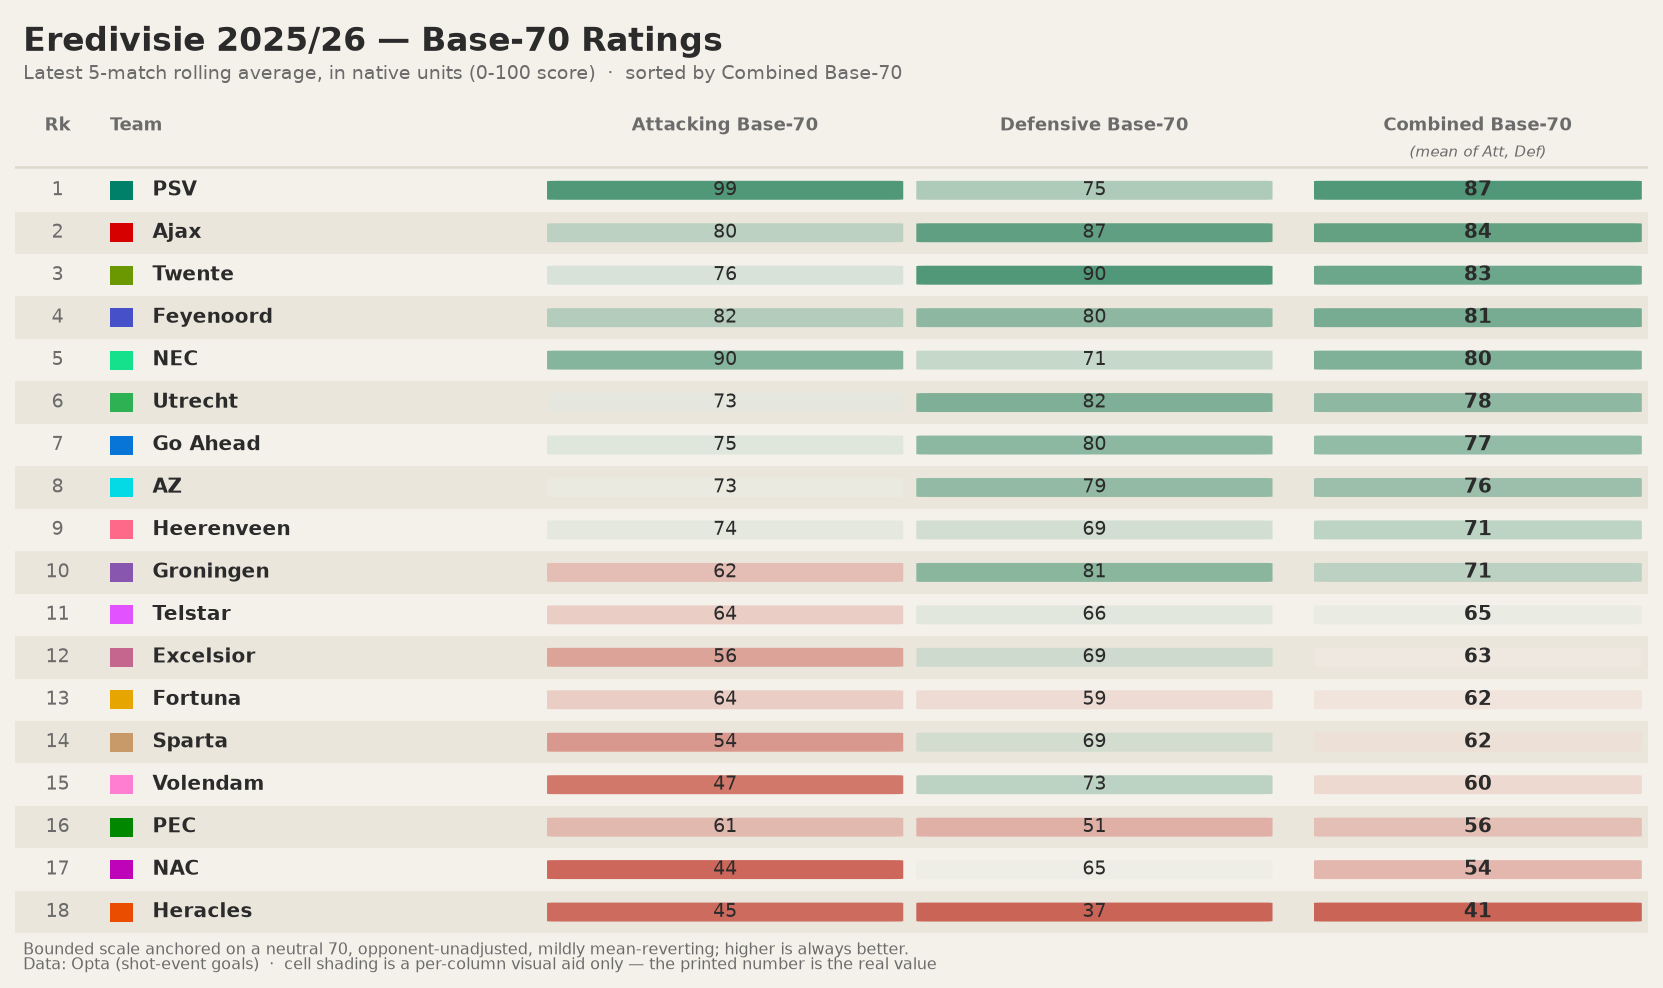
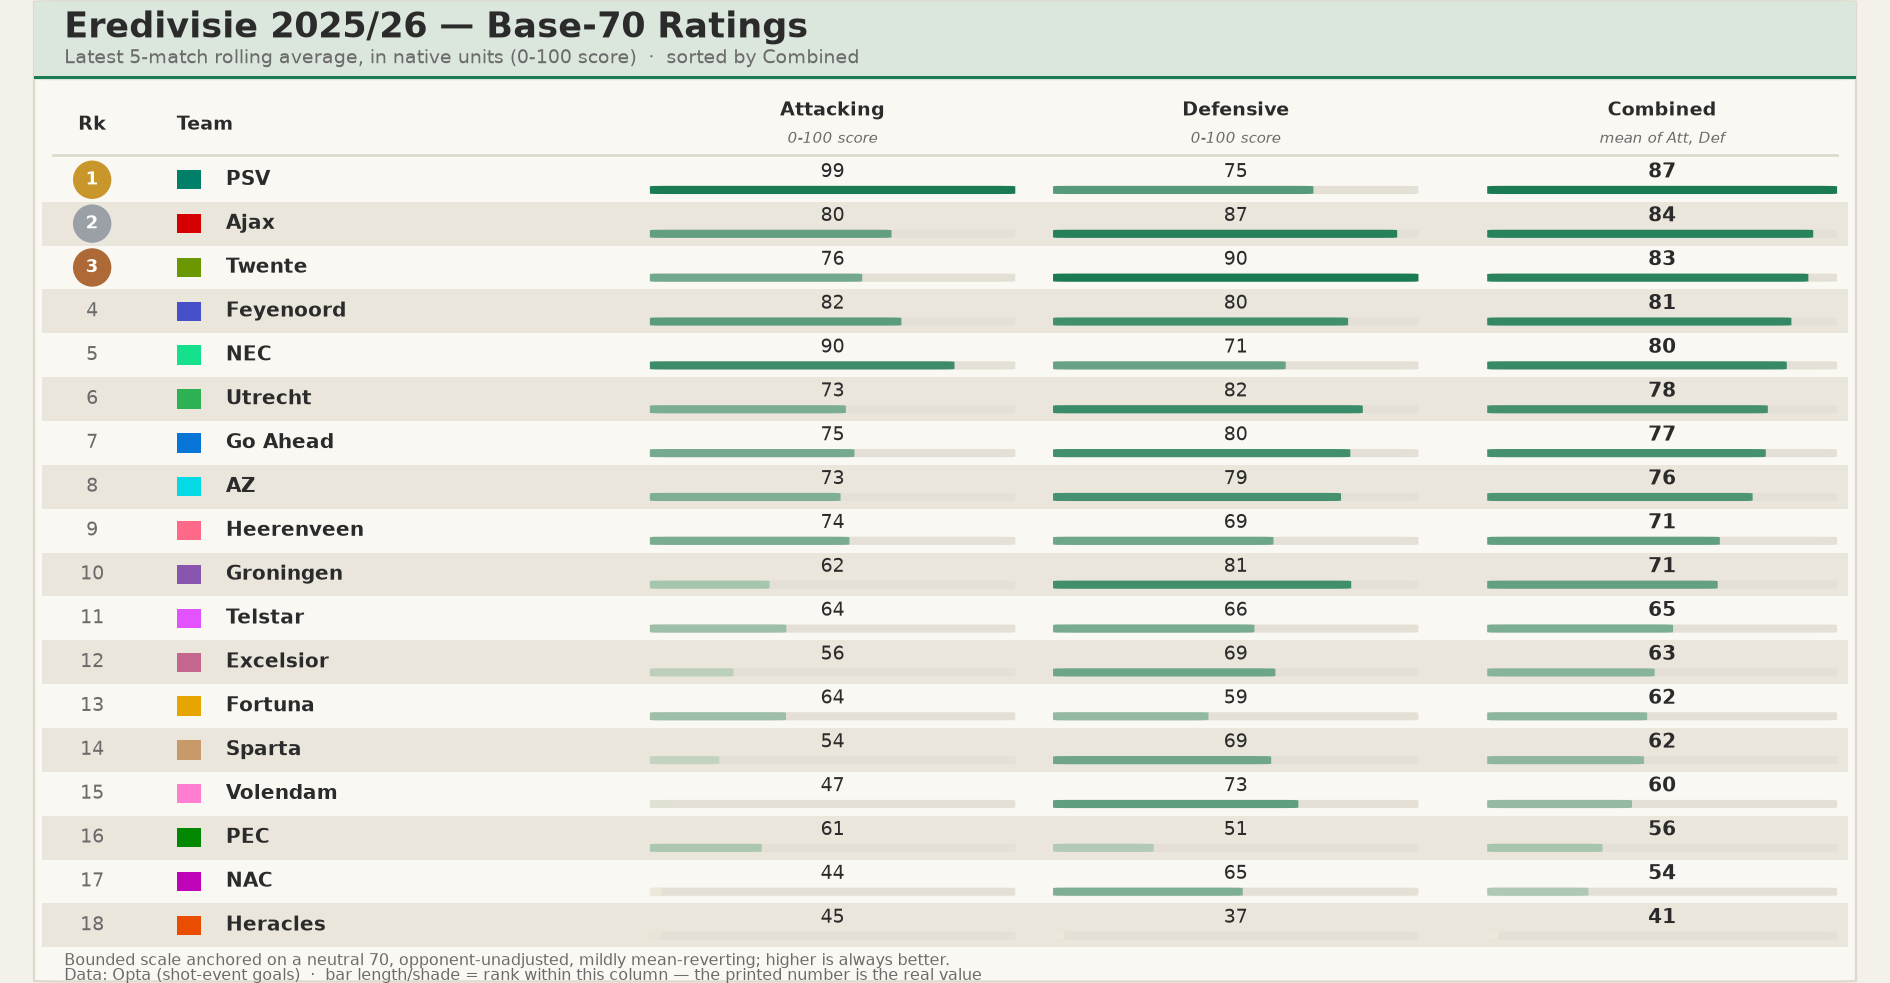
Redesign ratings tables: consistent sizing, proportional bars, brand accents
Fixes an inconsistency where the 4 per-system table PNGs came out at
different pixel dimensions (bbox_inches='tight' cropped each one differently
depending on its title/label text length) - they're now identical.

Visual redesign: each table now uses a card layout with a header banner
tinted in that system's accent color (matching its line color in
top3_ratings.py, so the whole rating-visual family reads as one set), gold/
silver/bronze badges for the top 3, and a proportional data-bar under every
value instead of a flat full-width tint block, so bar length also encodes
rank within the column alongside the shading.

diff --git a/Scripts/ratings_table.py b/Scripts/ratings_table.py
@@ -15,14 +15,15 @@ PI is the one system where the defensive column is not "higher is better":
 it's goals conceded per match, so lower is better there — flagged directly in
 that table's column header and footnote instead of being hidden by rescaling.
 
-Cell background shading is a per-column visual aid only (relative strength
-within that column); the printed number is always the real, un-rescaled value.
+Each metric cell shows the real value with a proportional data-bar underneath
+(length + shade = that team's rank within the column, in the system's own
+accent color — the same accent used for that system's line in top3_ratings.py).
 """
 import numpy as np
 import pandas as pd
 import matplotlib.pyplot as plt
 import matplotlib.patches as mpatches
-from matplotlib.colors import LinearSegmentedColormap
+from matplotlib.colors import to_rgb
 
 from ratings_common import compute_all_systems_native, METHOD_ORDER
 
@@ -34,6 +35,10 @@ Q_MUTED   = '#6b6b6b'
 Q_GRID    = '#ddd9cd'
 Q_SURFACE = '#f4f1ea'
 Q_BAND    = '#eae6dc'
+Q_CARD    = '#faf8f3'
+Q_TRACK   = '#e4e0d5'
+
+MEDALS = {1: '#c9962b', 2: '#9aa0a6', 3: '#ad6a37'}
 
 # Same glasbey-safe team identity palette as coach_profiling.py / top3_ratings.py
 TEAM_COLORS = {
@@ -77,56 +82,59 @@ TEAM_SHORT = {
     'Sparta Rotterdam': 'Sparta',
 }
 
-CELL_CMAP = LinearSegmentedColormap.from_list('ratings_diverging', ['#c0392b', '#f4f1ea', '#1a7a52'], N=256)
-
-# per-system display config
+# per-system display config — accent matches that system's line color in top3_ratings.py
 SYSTEM_CONFIG = {
     'PI': dict(
-        file='pi_table.png', title='PI Ratings', unit='goals / match',
-        fmt='{:.2f}', att_label='Attacking\n(goals/match)',
-        def_label='Defensive\n(goals/match, ↓ better)',
+        file='pi_table.png', title='PI Ratings', unit='goals / match', accent='#2f6fb0',
+        fmt='{:.2f}', att_label='Attacking', att_sub='goals/match',
+        def_label='Defensive', def_sub='goals/match, ↓ better',
         def_higher_is_better=False,
-        composite_label='Net\n(Att − Def)',
+        composite_label='Net', composite_sub='Att − Def',
         composite_fn=lambda att, deff: att - deff,
         footnote='PI is a simple, opponent-unadjusted per-match goal rate. Its defensive column is goals '
                  'conceded/match, so LOWER is better there — the only column in these 4 tables where that is true.',
     ),
     'ELO': dict(
-        file='elo_table.png', title='ELO Ratings', unit='Elo points',
-        fmt='{:.0f}', att_label='Attacking ELO', def_label='Defensive ELO',
+        file='elo_table.png', title='ELO Ratings', unit='Elo points', accent='#a6620a',
+        fmt='{:.0f}', att_label='Attacking', att_sub='Elo points',
+        def_label='Defensive', def_sub='Elo points',
         def_higher_is_better=True,
-        composite_label='Combined ELO\n(mean of Att, Def)',
+        composite_label='Combined', composite_sub='mean of Att, Def',
         composite_fn=lambda att, deff: (att + deff) / 2,
         footnote='Classic Elo, opponent-adjusted; both columns start every team at 1500 and higher is always better.',
     ),
     'Glicko-2': dict(
-        file='glicko2_table.png', title='Glicko-2 Ratings', unit='Glicko-2 rating',
-        fmt='{:.0f}', att_label='Attacking Glicko-2', def_label='Defensive Glicko-2',
+        file='glicko2_table.png', title='Glicko-2 Ratings', unit='Glicko-2 rating', accent='#a52a52',
+        fmt='{:.0f}', att_label='Attacking', att_sub='Glicko-2 rating',
+        def_label='Defensive', def_sub='Glicko-2 rating',
         def_higher_is_better=True,
-        composite_label='Combined Glicko-2\n(mean of Att, Def)',
+        composite_label='Combined', composite_sub='mean of Att, Def',
         composite_fn=lambda att, deff: (att + deff) / 2,
         footnote='Elo extension with rating deviation/volatility (both start at 1500); higher is always better.',
     ),
     'Base-70': dict(
-        file='base70_table.png', title='Base-70 Ratings', unit='0-100 score',
-        fmt='{:.0f}', att_label='Attacking Base-70', def_label='Defensive Base-70',
+        file='base70_table.png', title='Base-70 Ratings', unit='0-100 score', accent='#1a7a52',
+        fmt='{:.0f}', att_label='Attacking', att_sub='0-100 score',
+        def_label='Defensive', def_sub='0-100 score',
         def_higher_is_better=True,
-        composite_label='Combined Base-70\n(mean of Att, Def)',
+        composite_label='Combined', composite_sub='mean of Att, Def',
         composite_fn=lambda att, deff: (att + deff) / 2,
         footnote='Bounded scale anchored on a neutral 70, opponent-unadjusted, mildly mean-reverting; higher is always better.',
     ),
 }
 
 
-def cell_color(val, lo, hi, invert=False, alpha=0.75):
-    if hi == lo:
-        frac = 0.5
-    else:
-        frac = (val - lo) / (hi - lo)
-    if invert:
-        frac = 1 - frac
-    r, g, b, _ = CELL_CMAP(np.clip(frac, 0, 1))
-    return (r, g, b, alpha)
+def sequential_color(accent, frac, light=(0.925, 0.910, 0.855), alpha=1.0):
+    """Blend from a light neutral tint up to the system's full accent color."""
+    frac = np.clip(frac, 0, 1)
+    ar, ag, ab = to_rgb(accent)
+    lr, lg, lb = light
+    return (lr + (ar - lr) * frac, lg + (ag - lg) * frac, lb + (ab - lb) * frac, alpha)
+
+
+def col_frac(val, lo, hi, invert=False):
+    frac = 0.5 if hi == lo else (val - lo) / (hi - lo)
+    return 1 - frac if invert else frac
 
 
 def build_table(systems, teams, method):
@@ -141,37 +149,52 @@ def build_table(systems, teams, method):
     return df
 
 
-COLUMNS = [('rank', 'Rk', 0.6), ('team', 'Team', 2.9), ('gap1', '', 0.2),
-           ('att', 'att_label', 2.6), ('deff', 'def_label', 2.6), ('gap2', '', 0.2),
-           ('composite', 'composite_label', 2.4)]
+COLUMNS = [('rank', 0.75), ('team', 2.9), ('gap1', 0.2),
+           ('att', 2.6), ('deff', 2.6), ('gap2', 0.2), ('composite', 2.5)]
 
 
 def col_edges():
-    widths = np.array([w for _, _, w in COLUMNS], dtype=float)
+    widths = np.array([w for _, w in COLUMNS], dtype=float)
     widths = widths / widths.sum()
     edges = np.concatenate([[0], np.cumsum(widths)])
-    return {key: (edges[i], edges[i + 1]) for i, (key, _, _) in enumerate(COLUMNS)}
+    return {key: (edges[i], edges[i + 1]) for i, (key, _) in enumerate(COLUMNS)}
+
+
+MARGIN = 0.018
 
 
 def plot_table(df, method):
     cfg = SYSTEM_CONFIG[method]
+    accent = cfg['accent']
     n = len(df)
-    row_h = 0.85
-    header_h = 1.5
-    title_h = 1.6
-    footer_h = 0.75
+    row_h = 0.86
+    header_h = 1.55
+    title_h = 1.55
+    footer_h = 0.7
     fig_h = title_h + header_h + n * row_h + footer_h
-    fig, ax = plt.subplots(figsize=(11, fig_h * 0.34), facecolor=Q_SURFACE)
+    fig, ax = plt.subplots(figsize=(12.6, fig_h * 0.34), facecolor=Q_SURFACE)
     ax.set_xlim(0, 1)
     ax.set_ylim(0, fig_h)
     ax.invert_yaxis()
     ax.axis('off')
 
-    ax.text(0.005, title_h * 0.35, f"Eredivisie 2025/26 — {cfg['title']}",
-            ha='left', va='center', color=Q_INK, fontsize=16, fontweight='bold')
-    ax.text(0.005, title_h * 0.75,
-            f"Latest 5-match rolling average, in native units ({cfg['unit']})  ·  sorted by {cfg['composite_label'].splitlines()[0]}",
-            ha='left', va='center', color=Q_MUTED, fontsize=9)
+    # ── card background + accent header banner ──
+    ax.add_patch(mpatches.FancyBboxPatch((MARGIN, 0.03), 1 - 2 * MARGIN, fig_h - 0.06,
+                                          boxstyle='round,pad=0,rounding_size=0.012',
+                                          facecolor=Q_CARD, edgecolor=Q_GRID, linewidth=1.1, zorder=0))
+    ax.add_patch(mpatches.FancyBboxPatch((MARGIN, 0.03), 1 - 2 * MARGIN, title_h,
+                                          boxstyle='round,pad=0,rounding_size=0.012',
+                                          facecolor=sequential_color(accent, 0.14, light=to_rgb(Q_CARD)),
+                                          edgecolor='none', zorder=0))
+    ax.add_patch(mpatches.Rectangle((MARGIN, title_h - 0.05), 1 - 2 * MARGIN, 0.05,
+                                     facecolor=accent, edgecolor='none', zorder=0))
+
+    pad_x = MARGIN + 0.016
+    ax.text(pad_x, title_h * 0.36, f"Eredivisie 2025/26 — {cfg['title']}",
+            ha='left', va='center', color=Q_INK, fontsize=17, fontweight='bold', zorder=2)
+    ax.text(pad_x, title_h * 0.74,
+            f"Latest 5-match rolling average, in native units ({cfg['unit']})  ·  sorted by {cfg['composite_label']}",
+            ha='left', va='center', color=Q_MUTED, fontsize=9.2, zorder=2)
 
     edges = col_edges()
 
@@ -179,41 +202,60 @@ def plot_table(df, method):
         l, r = edges[key]
         return (l + r) / 2
 
-    label_map = {'att': cfg['att_label'], 'deff': cfg['def_label'], 'composite': cfg['composite_label']}
-    line1_y = title_h + header_h * 0.42
-    line2_y = title_h + header_h * 0.78
-    for key, label, _ in COLUMNS:
+    def xscale(key, frac_in_margin):
+        # rescale a 0..1 fraction from full-width coords into the card's inset
+        return MARGIN + frac_in_margin * (1 - 2 * MARGIN)
+
+    label_map = {
+        'att': (cfg['att_label'], cfg['att_sub']),
+        'deff': (cfg['def_label'], cfg['def_sub']),
+        'composite': (cfg['composite_label'], cfg['composite_sub']),
+    }
+    line1_y = title_h + header_h * 0.40
+    line2_y = title_h + header_h * 0.76
+    for key, _ in COLUMNS:
         if key.startswith('gap'):
             continue
-        text = label_map.get(key, label)
-        parts = text.split('\n')
         ha = 'left' if key == 'team' else 'center'
-        x = edges[key][0] + 0.006 if key == 'team' else xmid(key)
-        ax.text(x, line1_y, parts[0], ha=ha, va='center', color=Q_MUTED, fontsize=8.8, fontweight='bold')
-        if len(parts) > 1:
-            ax.text(x, line2_y, parts[1], ha=ha, va='center', color=Q_MUTED, fontsize=7.3, style='italic')
-    ax.plot([0, 1], [title_h + header_h - 0.05, title_h + header_h - 0.05], color=Q_GRID, linewidth=1.2)
+        x = xscale('team', edges[key][0]) + 0.014 if key == 'team' else xscale(key, xmid(key))
+        if key in label_map:
+            l1, l2 = label_map[key]
+            ax.text(x, line1_y, l1, ha=ha, va='center', color=Q_INK, fontsize=9.3, fontweight='bold', zorder=2)
+            ax.text(x, line2_y, l2, ha=ha, va='center', color=Q_MUTED, fontsize=7.3, style='italic', zorder=2)
+        else:
+            ax.text(x, (line1_y + line2_y) / 2, 'Rk' if key == 'rank' else 'Team',
+                    ha=ha, va='center', color=Q_INK, fontsize=9.3, fontweight='bold', zorder=2)
+    ax.plot([MARGIN + 0.01, 1 - MARGIN - 0.01],
+            [title_h + header_h - 0.06, title_h + header_h - 0.06], color=Q_GRID, linewidth=1.3, zorder=1)
 
     att_lo, att_hi = df['att'].min(), df['att'].max()
     def_lo, def_hi = df['deff'].min(), df['deff'].max()
     comp_lo, comp_hi = df['composite'].min(), df['composite'].max()
 
+    bar_h = 0.16
     for i, (_, row) in enumerate(df.iterrows()):
         y0 = title_h + header_h + i * row_h
         yc = y0 + row_h / 2
 
         if i % 2 == 1:
-            ax.add_patch(mpatches.Rectangle((0, y0), 1, row_h, facecolor=Q_BAND, edgecolor='none', zorder=0))
+            ax.add_patch(mpatches.Rectangle((MARGIN + 0.004, y0), 1 - 2 * MARGIN - 0.008, row_h,
+                                             facecolor=Q_BAND, edgecolor='none', zorder=0))
 
         rank = df.index[i]
-        ax.text(xmid('rank'), yc, str(rank), ha='center', va='center', color=Q_MUTED, fontsize=9, zorder=2)
+        rx = xscale('rank', xmid('rank'))
+        if rank in MEDALS:
+            ax.scatter([rx], [yc], s=340, marker='o', color=MEDALS[rank], zorder=2, edgecolor='none')
+            ax.text(rx, yc, str(rank), ha='center', va='center', color='white', fontsize=8.6,
+                    fontweight='bold', zorder=3)
+        else:
+            ax.text(rx, yc, str(rank), ha='center', va='center', color=Q_MUTED, fontsize=9, zorder=2)
 
         team = row['team']
-        swatch_x = edges['team'][0] + 0.006
-        ax.add_patch(mpatches.Rectangle((swatch_x, yc - 0.19), 0.014, 0.38,
+        swatch_x = xscale('team', edges['team'][0]) + 0.014
+        ax.add_patch(mpatches.Rectangle((swatch_x, yc - 0.19), 0.013, 0.38,
                                          facecolor=TEAM_COLORS.get(team, '#888'), edgecolor='none', zorder=2))
         ax.text(swatch_x + 0.026, yc, TEAM_SHORT.get(team, team), ha='left', va='center',
-                color=Q_INK, fontsize=9.5, fontweight='bold', zorder=2)
+                color=Q_INK, fontsize=9.6, fontweight='bold', zorder=2)
 
         for key, val, lo, hi, invert in [
             ('att', row['att'], att_lo, att_hi, False),
@@ -221,24 +263,34 @@ def plot_table(df, method):
             ('composite', row['composite'], comp_lo, comp_hi, False),
         ]:
             l, r = edges[key]
-            pad = 0.004
-            ax.add_patch(mpatches.FancyBboxPatch((l + pad, yc - 0.19), (r - l) - 2 * pad, 0.38,
-                                                  boxstyle='round,pad=0,rounding_size=0.007',
-                                                  facecolor=cell_color(val, lo, hi, invert=invert), edgecolor='none', zorder=1))
-            weight = 'bold' if key == 'composite' else 'normal'
-            fs = 9.5 if key == 'composite' else 9
-            ax.text(xmid(key), yc, cfg['fmt'].format(val), ha='center', va='center',
-                    color=Q_INK, fontsize=fs, fontweight=weight, zorder=2)
+            l, r = xscale(key, l), xscale(key, r)
+            frac = col_frac(val, lo, hi, invert=invert)
+            bold = key == 'composite'
 
-    ax.text(0.005, fig_h - footer_h * 0.55, cfg['footnote'],
-            ha='left', va='center', color=Q_MUTED, fontsize=7.8, wrap=True)
-    ax.text(0.005, fig_h - footer_h * 0.15,
-            'Data: Opta (shot-event goals)  ·  cell shading is a per-column visual aid only — the printed number is the real value',
+            # value, top of cell
+            ax.text((l + r) / 2, yc - 0.15, cfg['fmt'].format(val), ha='center', va='center',
+                    color=Q_INK, fontsize=9.8 if bold else 9.2, fontweight='bold' if bold else 'normal', zorder=2)
+
+            # proportional data-bar, bottom of cell
+            bar_pad = 0.01
+            track_l, track_r = l + bar_pad, r - bar_pad
+            ax.add_patch(mpatches.FancyBboxPatch((track_l, yc + 0.12), track_r - track_l, bar_h,
+                                                  boxstyle='round,pad=0,rounding_size=0.008',
+                                                  facecolor=Q_TRACK, edgecolor='none', zorder=1))
+            bar_w = max((track_r - track_l) * frac, 0.006)
+            ax.add_patch(mpatches.FancyBboxPatch((track_l, yc + 0.12), bar_w, bar_h,
+                                                  boxstyle='round,pad=0,rounding_size=0.008',
+                                                  facecolor=sequential_color(accent, frac), edgecolor='none', zorder=2))
+
+    ax.text(pad_x, fig_h - footer_h * 0.62, cfg['footnote'],
+            ha='left', va='center', color=Q_MUTED, fontsize=7.9)
+    ax.text(pad_x, fig_h - footer_h * 0.2,
+            'Data: Opta (shot-event goals)  ·  bar length/shade = rank within this column — the printed number is the real value',
             ha='left', va='center', color=Q_MUTED, fontsize=7.5)
 
-    plt.tight_layout(pad=0.4)
+    fig.subplots_adjust(left=0, right=1, top=1, bottom=0)
     out_path = f"{OUT_DIR}/{cfg['file']}"
-    plt.savefig(out_path, dpi=150, bbox_inches='tight', facecolor=Q_SURFACE)
+    plt.savefig(out_path, dpi=150, facecolor=Q_SURFACE)
     plt.close()
     print('Saved:', out_path)
 
